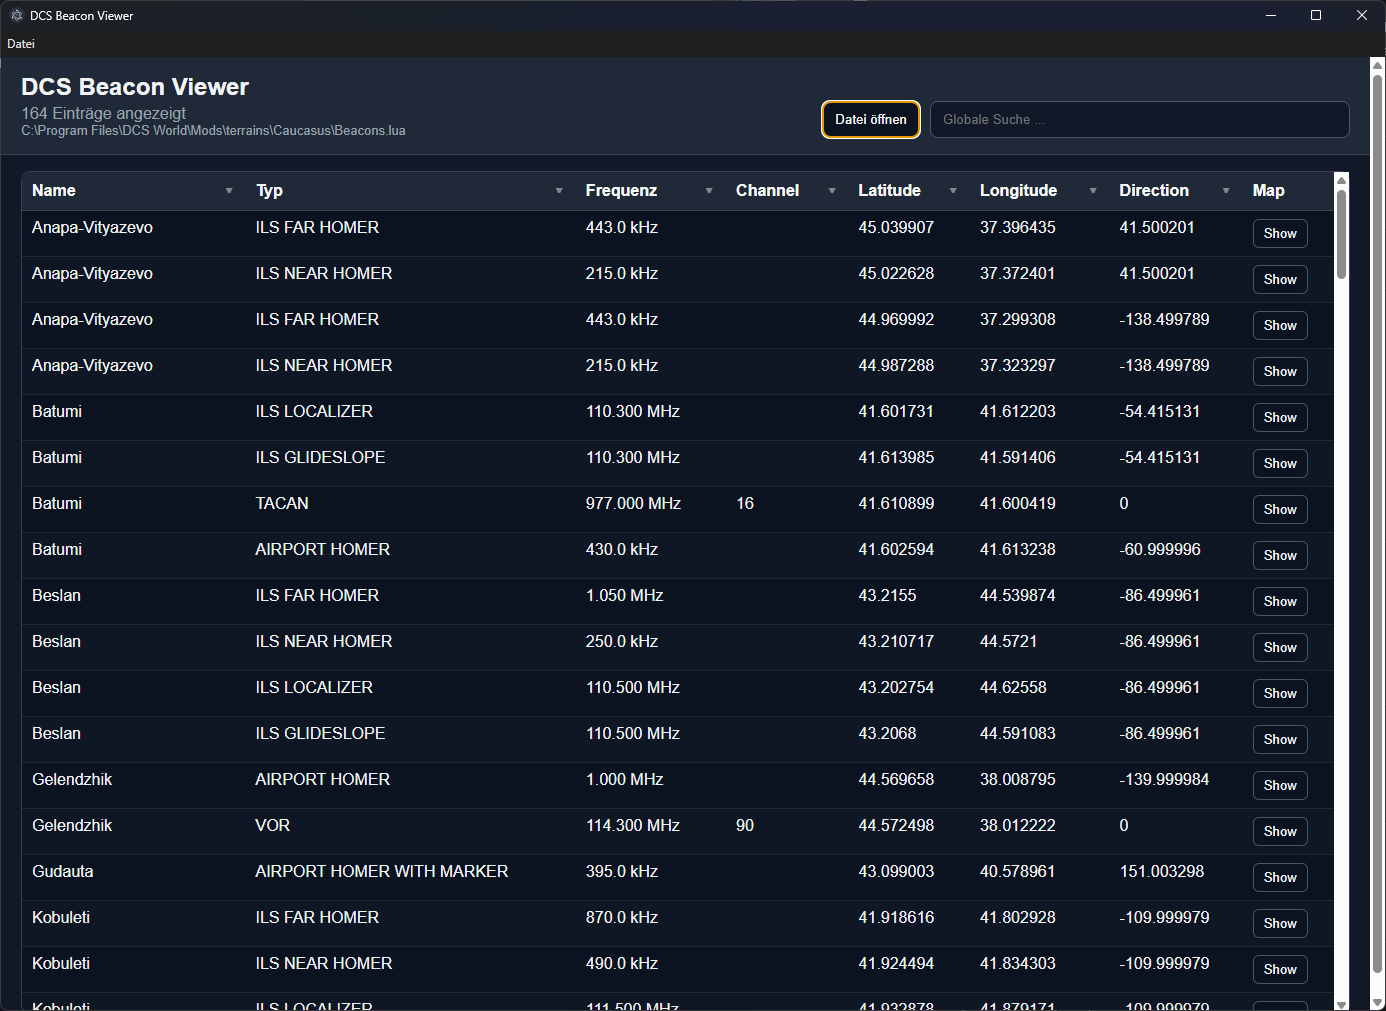
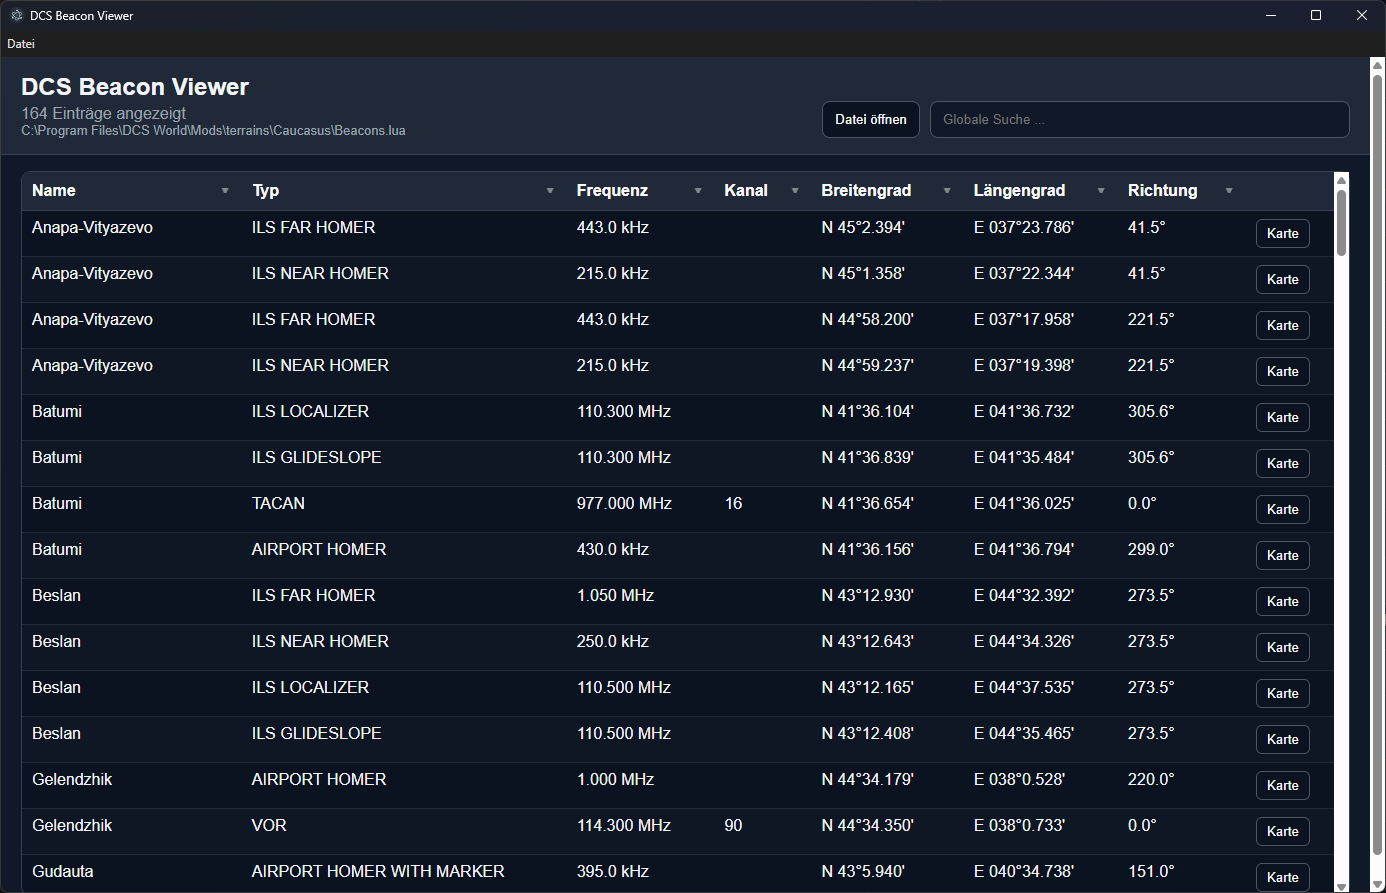
Textliche Anpassungen

diff --git a/renderer.js b/renderer.js
@@ -52,6 +52,24 @@ window.addEventListener("DOMContentLoaded", () => {
     return `${mhz.toFixed(3)} MHz`;
   }
 
+  function toDDM(value, isLat) {
+    if (value === null || value === undefined || Number.isNaN(value)) {
+      return "";
+    }
+
+    const abs = Math.abs(value);
+    const degrees = Math.floor(abs);
+    const minutes = (abs - degrees) * 60;
+
+    const direction = isLat
+      ? value >= 0 ? "N" : "S"
+      : value >= 0 ? "E" : "W";
+
+    const degWidth = isLat ? 2 : 3;
+
+    return `${direction} ${String(degrees).padStart(degWidth, "0")}°${minutes.toFixed(3)}'`;
+  }
+
   function mapBeaconForView(row) {
     return {
       display_name: row.display_name ?? "",
@@ -59,9 +77,12 @@ window.addEventListener("DOMContentLoaded", () => {
       frequency: row.frequency ?? null,
       frequency_display: formatFrequency(row.frequency),
       channel: row.channel ?? "",
-      latitude: row.latitude ?? "",
-      longitude: row.longitude ?? "",
-      direction: row.direction ?? ""
+      latitude: toDDM(row.latitude, true),
+      longitude: toDDM(row.longitude, false),
+      direction:
+        row.direction !== null && row.direction !== undefined
+          ? `${((row.direction % 360 + 360) % 360).toFixed(1)}°`
+          : ""
     };
   }
 
@@ -90,7 +111,7 @@ window.addEventListener("DOMContentLoaded", () => {
 
       const actionTd = document.createElement("td");
       const showBtn = document.createElement("button");
-      showBtn.textContent = "Show";
+      showBtn.textContent = "Karte";
       showBtn.className = "show-map-btn";
       showBtn.disabled = row.latitude === "" || row.longitude === "";
 

diff --git a/index.html b/index.html
@@ -31,11 +31,11 @@
             <th data-key="display_name">Name</th>
             <th data-key="type">Typ</th>
             <th data-key="frequency">Frequenz</th>
-            <th data-key="channel">Channel</th>
-            <th data-key="latitude">Latitude</th>
-            <th data-key="longitude">Longitude</th>
-            <th data-key="direction">Direction</th>
-            <th>Map</th>
+            <th data-key="channel">Kanal</th>
+            <th data-key="latitude">Breitengrad</th>
+            <th data-key="longitude">Längengrad</th>
+            <th data-key="direction">Richtung</th>
+            <th></th>
           </tr>
         </thead>
         <tbody></tbody>
